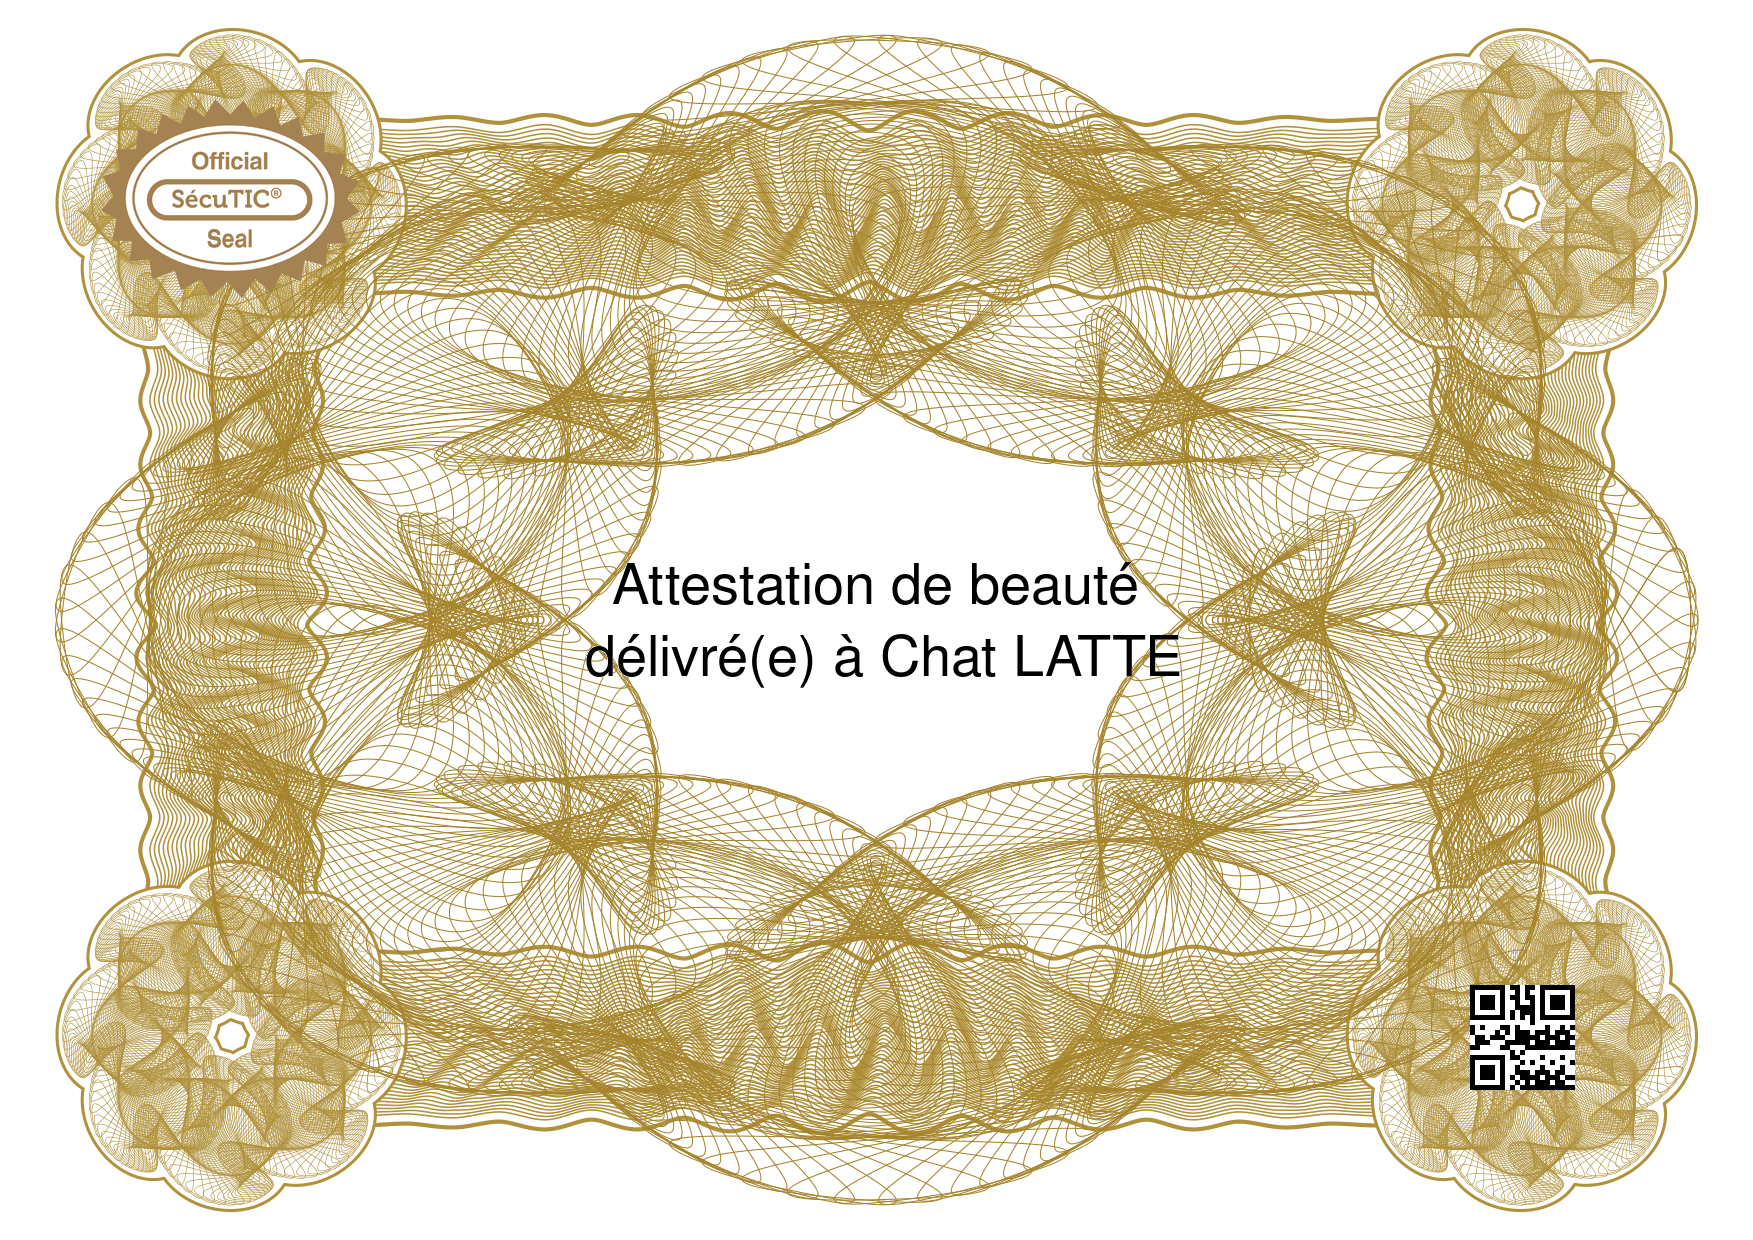
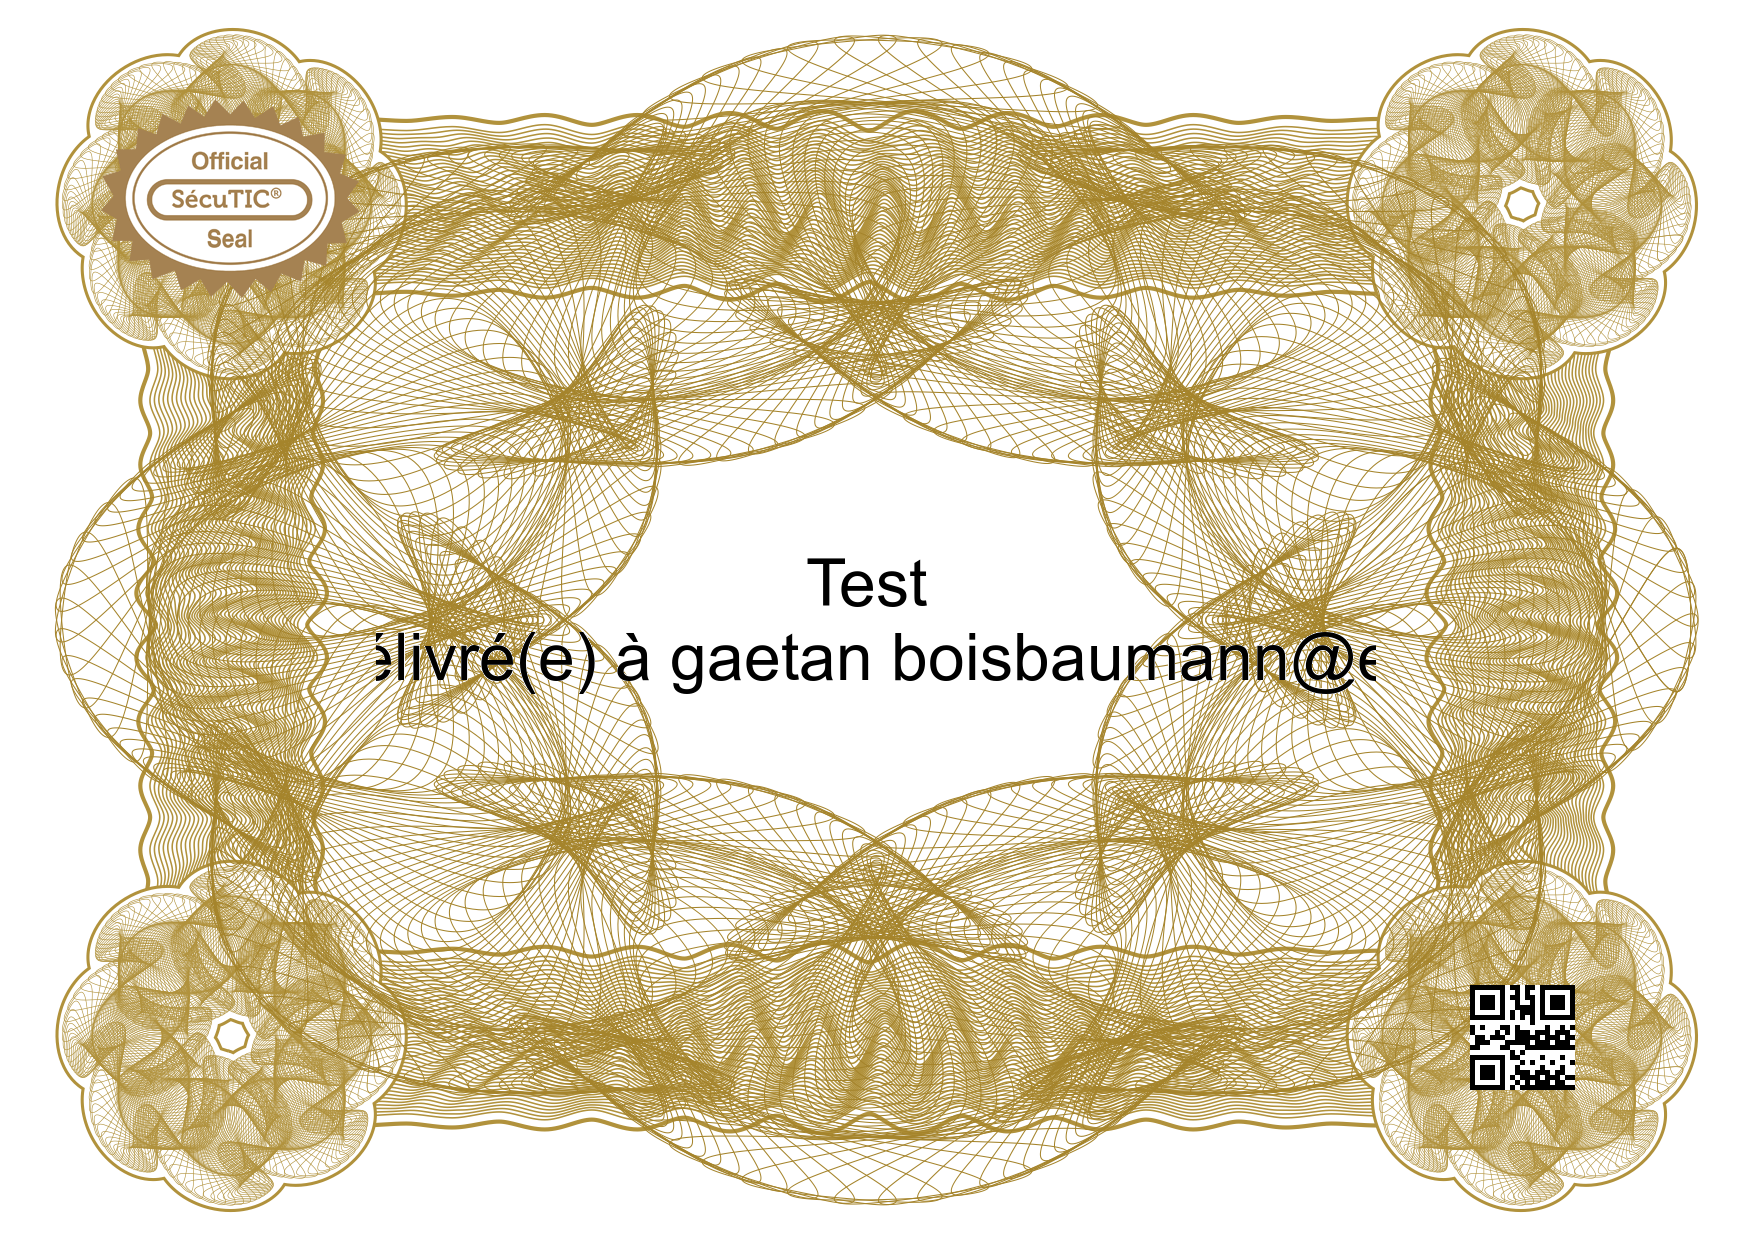
Implementation of contacter_sso_universite and creation in ServeurFrontal

Changed region(s): [[0.2156, 0.429, 0.8009, 0.5823]]

diff --git a/src/serveur_frontal.py b/src/serveur_frontal.py
@@ -2,7 +2,7 @@ from serveur_applicatif import ServeurApplicatif
 from steganographie import Steganographie
 from etudiant import Etudiant
 from certificat import Certificat
-from bottle import route, run, template, request, response
+from bottle import Bottle, route, run, template, request, response
 import urllib.request
 import urllib.parse
 import re
@@ -11,7 +11,14 @@ import datetime
 
 class ServeurFrontal:
     def __init__(self, serveur_applicatif: ServeurApplicatif):
+        self.app = Bottle()
         self.serveur_applicatif: ServeurApplicatif = serveur_applicatif
+        self.setup_routes()
+
+    def setup_routes(self):
+        self.app.route('/fond', callback=self.recuperer_fond)
+        self.app.route('/verification', method='POST', callback=self.verification)
+        self.app.route('/creation', method='POST', callback=self.creation)
 
     
     def obtenir_date(self) -> str:
@@ -20,11 +27,10 @@ class ServeurFrontal:
 
 
     def demarrer(self):
-        run(host='0.0.0.0',port=8080,debug=True)
-        pass
+        self.app.run(host='0.0.0.0',port=8080,debug=True)
 
 
-    def contacter_sso_universite(self):
+    def contacter_sso_universite(self, email: str, mdp: str) -> list:
         re_token = re.compile(rb'name="token" value="([^"]+)"')
         request = urllib.request.Request('https://cas.unilim.fr')
         rep = urllib.request.urlopen(request)
@@ -37,16 +43,16 @@ class ServeurFrontal:
             sys.exit(1)
         cookieProcessor = urllib.request.HTTPCookieProcessor()
         opener = urllib.request.build_opener(cookieProcessor)
-        data = urllib.parse.urlencode({'user':'toto','password':'secret','token':token})
+        data = urllib.parse.urlencode({'user':email,'password':mdp,'token':token})
 
         request = urllib.request.Request('https://cas.unilim.fr',bytes(data,encoding='ascii'))
         reponse = opener.open(request)
         cookies = [c for c in cookieProcessor.cookiejar if c.name=='lemonldap']
-        print(cookies)
+        return cookies
 
 
-    @route('/fond')
-    def récupérer_fond():
+    #@route('/fond')
+    def recuperer_fond(self):
         response.set_header('Content-type', 'image/png')
         descripteur_fichier = open('./src/img/attestation.png','rb')
         contenu_fichier = descripteur_fichier.read()
@@ -54,24 +60,36 @@ class ServeurFrontal:
         return contenu_fichier
 
     
-    @route('/verification', method='POST')
-    def verification():
+    #@route('/verification', method='POST')
+    def verification(self):
         contenu_image = request.files.get('image')
         contenu_image.save('attestation_a_verifier.png',overwrite=True)
         response.set_header('Content-type', 'text/plain')
         return "ok!"
 
     
-    @route('/creation', method='POST')
-    # def creation(self, etudiant: Etudiant, mdp: str):
-    def creation():
-        contenu_nom = request.forms.get('nom')
-        contenu_prenom = request.forms.get('prenom')
+    #@route('/creation', method='POST')
+    def creation(self):
+        # Récupération des informations
+        contenu_email = request.forms.get('email')
+        nom_etudiant: str = contenu_email.split(".")[0]
+        prenom_etudiant: str = contenu_email.split(".")[1]
         contenu_intitulé_certification = request.forms.get('intitule_certif')
-        etudiant_actuel: Etudiant = Etudiant(contenu_nom, contenu_prenom, Certificat(contenu_intitulé_certification))
-        print('nom prénom :', contenu_nom, ",", contenu_prenom, ' intitulé de la certification :', contenu_intitulé_certification)
-        response.set_header('Content-type', 'text/plain')
-        return "ok!"
+        contenu_mot_de_passe = request.forms.get('mdp')
+        etudiant_actuel: Etudiant = Etudiant(nom_etudiant, prenom_etudiant, Certificat(contenu_intitulé_certification))
+        
+        # Vérification de l'étudiant avec le SSO de l'université
+        cookies: list = self.contacter_sso_universite(contenu_email, contenu_mot_de_passe)
+        if cookies:
+            # Intéraction avec le serveur d'application
+            # TODO signature on fait quoi??? Ce n'est pas le serveur d'application qui fait ça ?
+            self.serveur_applicatif.creation_certificat(etudiant_actuel, "TODO voir quoi mettre ici")
+
+            # Réponse
+            response.set_header('Content-type', 'text/plain')
+            return "ok!"
+        
+        return "Mot de passe ou nom de l'utilisateur incorrecte"
 
 
 if __name__ == "__main__":
@@ -79,4 +97,4 @@ if __name__ == "__main__":
     serveurApplicatif: ServeurApplicatif = ServeurApplicatif(stegano, "chatouillle")
     serveurFrontal: ServeurFrontal = ServeurFrontal(serveurApplicatif)
     print(serveurFrontal.obtenir_date())
-    #serveurFrontal.demarrer()
+    serveurFrontal.demarrer()

diff --git a/src/serveur_applicatif.py b/src/serveur_applicatif.py
@@ -28,7 +28,7 @@ class ServeurApplicatif:
         commande=subprocess.Popen("composite -geometry +1470+985 ./src/img/qrcode.png ./src/img/combinaison.png ./src/img/attestation.png", shell=True,stdout=subprocess.PIPE)
         (resultat, ignorer) = commande.communicate()
         bloc=(etudiant.nom+etudiant.prenom+etudiant.certificat.intitule).zfill(64)
-        serveur_app.obtenir_timestamp("./src/img/attestation.png")
+        self.obtenir_timestamp("./src/img/attestation.png")
         self.dissimulation_par_steganographie(bloc)
         #TODO fonction signature
 
@@ -51,7 +51,7 @@ class ServeurApplicatif:
             for c in content:
                 timestamp.append(c)
 
-        img = stegano.cacher("./src/img/attestation.png", bytes(bloc_information.encode())+bytes(timestamp))
+        img = self.stegano.cacher("./src/img/attestation.png", bytes(bloc_information.encode())+bytes(timestamp))
         img.save("./src/img/attestation_stegano.png")
 
 

diff --git a/README.md b/README.md
@@ -22,10 +22,10 @@ Employeur: ::: (Noah)
 
 ServeurFrontal: ::: (Gaétan)
 - serveurApp: ServeurApplicatif
-- [ ] obtenir_date() -> Date
-- [ ] demarrer() [Lancer le serveur avec openssl (TP4 - Ex8) utilisant un certificat ajouté dans le navigateur préalablement] ::: (Gaétan)
+- [X] obtenir_date() -> Date
+- [X] demarrer() [Lancer le serveur avec openssl (TP4 - Ex8) utilisant un certificat ajouté dans le navigateur préalablement] ::: (Gaétan)
 - [ ] verification() [Fait appel à la fonction verifier_attestation du ServeurApplicatif] ::: (Noah)
-- [ ] creation(etudiant: Etudiant, mdp: str) [Fait appel à la fonction creation_certificat du ServeurApplicatif. Cependant, il faut préalablement vérifier le mdp de l'étudiant avec le SSO Unilim] ::: (Gaétan/Noah - Projet page 7)
+- [X] creation(etudiant: Etudiant, mdp: str) [Fait appel à la fonction creation_certificat du ServeurApplicatif. Cependant, il faut préalablement vérifier le mdp de l'étudiant avec le SSO Unilim] ::: (Gaétan/Noah - Projet page 7)
 # TODO penser au bonus avec la sécurisation du serveur frontal (reverse_proxy, load_balancer, protection DoS, protection brute force)
 
 
